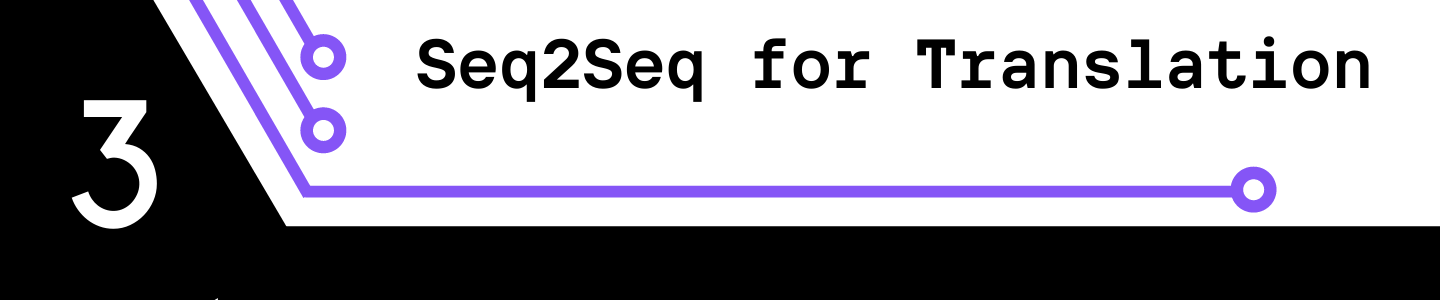
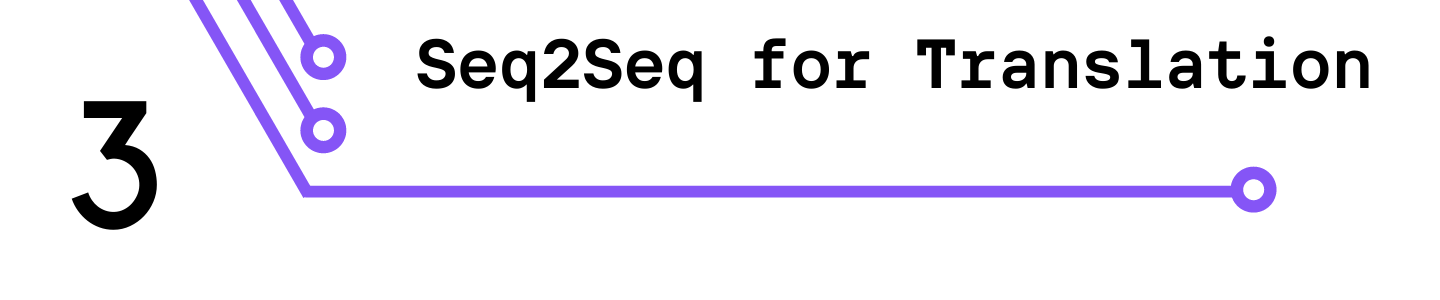
readme overhaul pt 3.4 light and dark mode headersv2

diff --git a/SP22/nlp-series/workshop-2/README.md b/SP22/nlp-series/workshop-2/README.md
@@ -1,4 +1,5 @@
 ![Header for Workshop 2: R N Ns for Multiclassification](./figures/NLPW2_Header_Light.png#gh-light-mode-only)
+![Header for Workshop 2: R N Ns for Multiclassification](./figures/NLPW2_Header_Dark.png#gh-dark-mode-only)
 
 The official ACM AI NLP Workshop Series - Workshop 2 repository.
 
@@ -41,6 +42,8 @@ workshop-2
         | -- NLPW2_Fig2.png
         | -- NLPW2_Fig3a.png
         | -- NLPW2_Fig3b.png
+        | -- NLPW2_Header_Dark.png
+        | -- NLPW2_Header_Light.png
     | -- presentation-resources
         | -- NLP_Workshop_2_-_RNN_for_Multi-Classification.pptx
         | -- ws2_summary_graphic.pdf

diff --git a/SP22/nlp-series/workshop-3/README.md b/SP22/nlp-series/workshop-3/README.md
@@ -1,4 +1,5 @@
 ![Header for Workshop 3: Seq 2 Seq for Translation](./figures/NLPW3_Header_Light.png#gh-light-mode-only)
+![Header for Workshop 3: Seq 2 Seq for Translation](./figures/NLPW3_Header_Dark.png#gh-dark-mode-only)
 
 The official ACM AI NLP Workshop Series - Workshop 3 repository.
 
@@ -44,6 +45,8 @@ workshop-3
         | -- NLPW3_Fig5a.png
         | -- NLPW3_Fig5b.png
         | -- NLPW3_Fig5c.png
+        | -- NLPW3_Header_Dark.png
+        | -- NLPW3_Header_Light.png
     | -- presentation-resources
         | -- NLP_Workshop_3_-_Seq2Seq_for_Machine_Translation.pptx
         | -- ws3_summary_graphic.pdf

diff --git a/SP22/nlp-series/README.md b/SP22/nlp-series/README.md
@@ -1,4 +1,5 @@
 ![Header for Workshop 3: Seq 2 Seq for Translation](./NLP_Main_Header_Light.png#gh-light-mode-only)
+![Header for Workshop 3: Seq 2 Seq for Translation](./NLP_Main_Header_Dark.png#gh-dark-mode-only)
 
 # NLP Workshop Series
 The official ACM AI NLP Workshop Series repository.
@@ -49,6 +50,8 @@ nlp-series
     | -- workshop-3
     |        | -- [Workshop 3 Resources]
     | 
+    | -- NLP_Main_Header_Dark.png
+    | -- NLP_Main_Header_Light.png
     | -- README.md
 ```
 

diff --git a/SP22/nlp-series/workshop-1/README.md b/SP22/nlp-series/workshop-1/README.md
@@ -36,6 +36,8 @@ workshop-1
         | -- NLPW1_Fig1b.png
         | -- NLPW1_Fig2.png
         | -- NLPW1_Fig3.png
+        | -- NLPW1_Header_Dark.png
+        | -- NLPW1_Header_Light.png
     | -- presentation-resources
         | -- NLP_Workshop_1_-_Basics_of_NLP.pptx
         | -- ws1_summary_graphic.pdf
